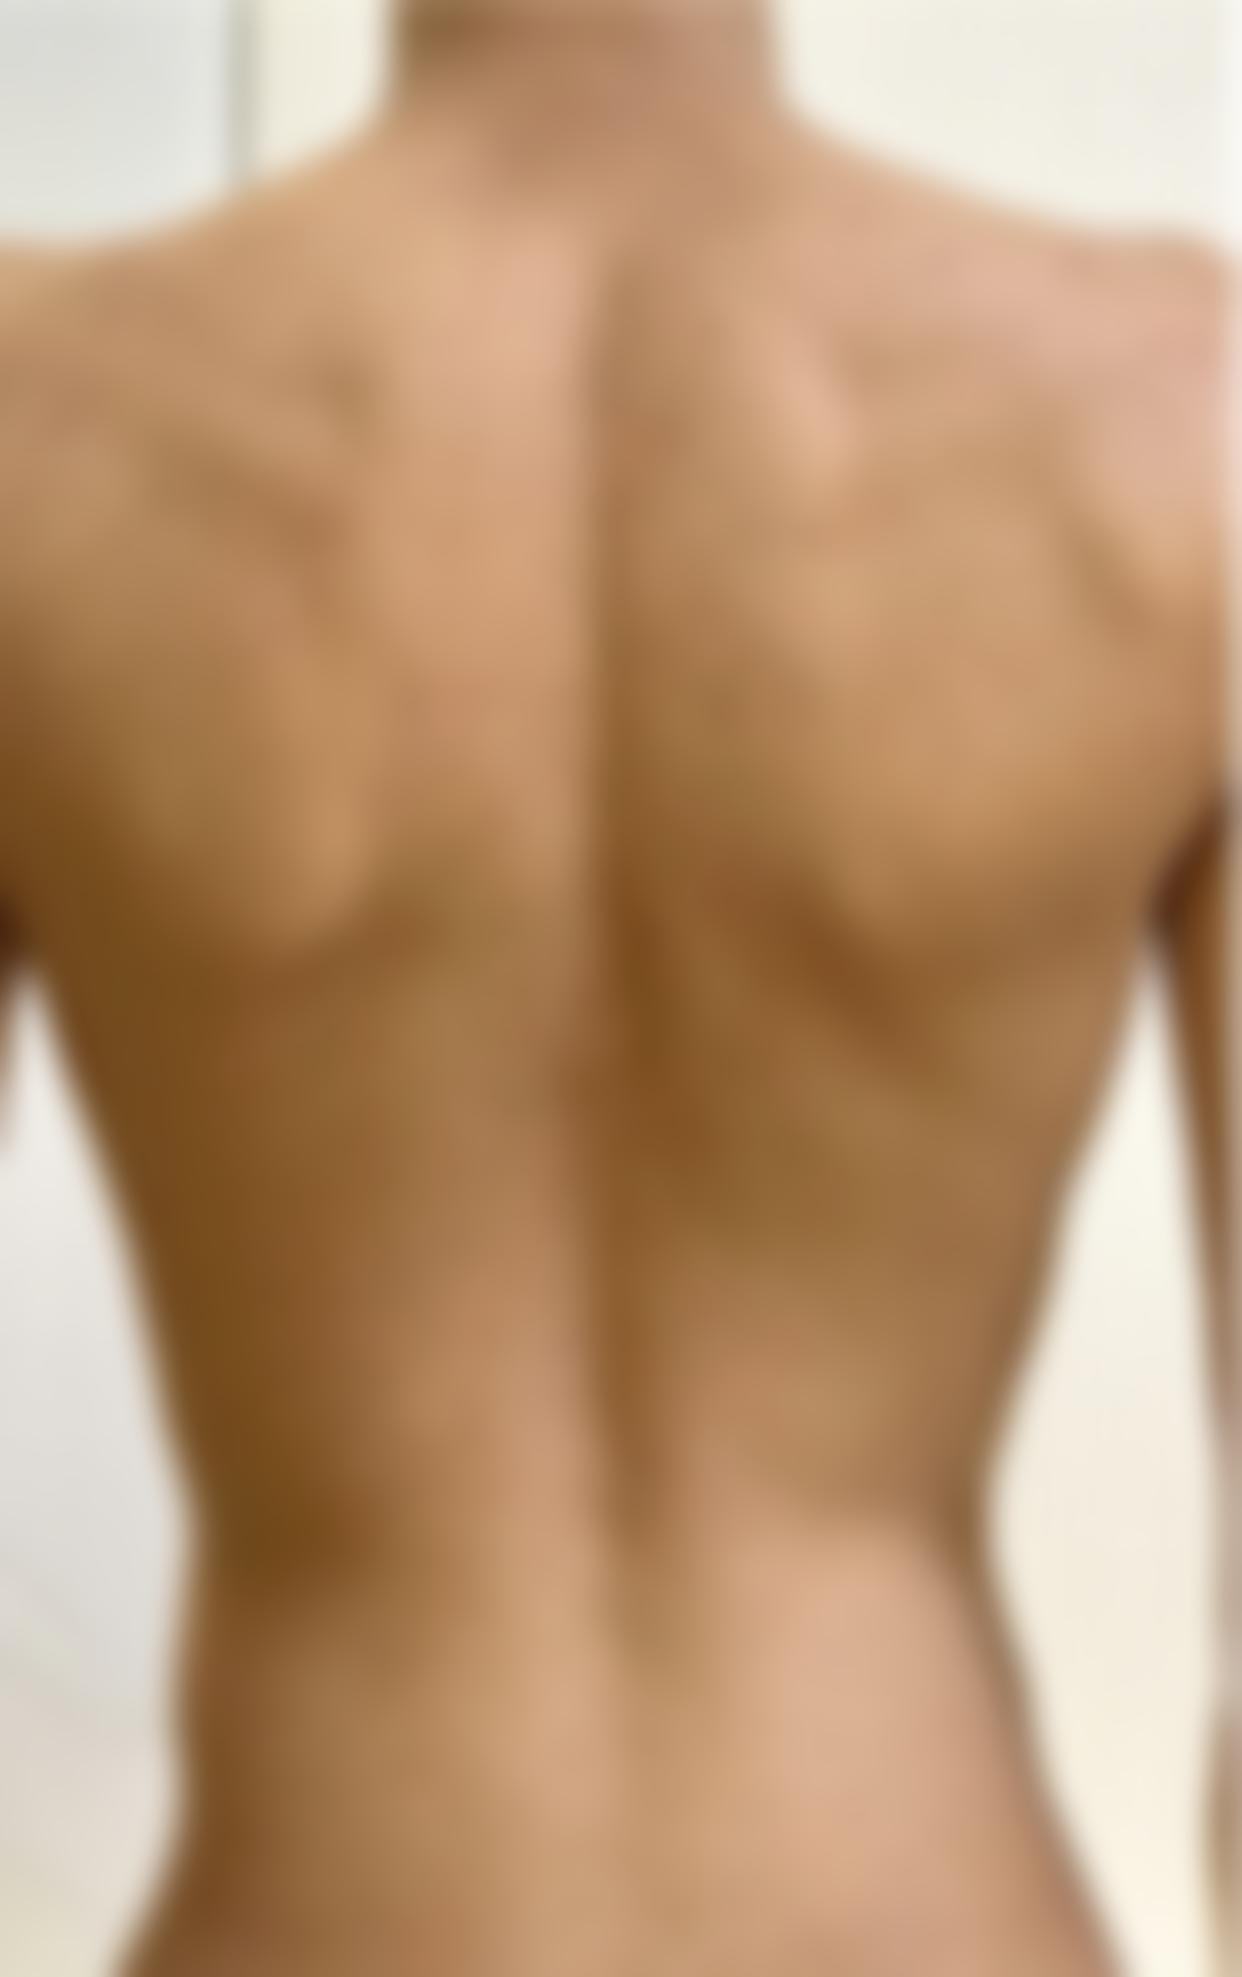
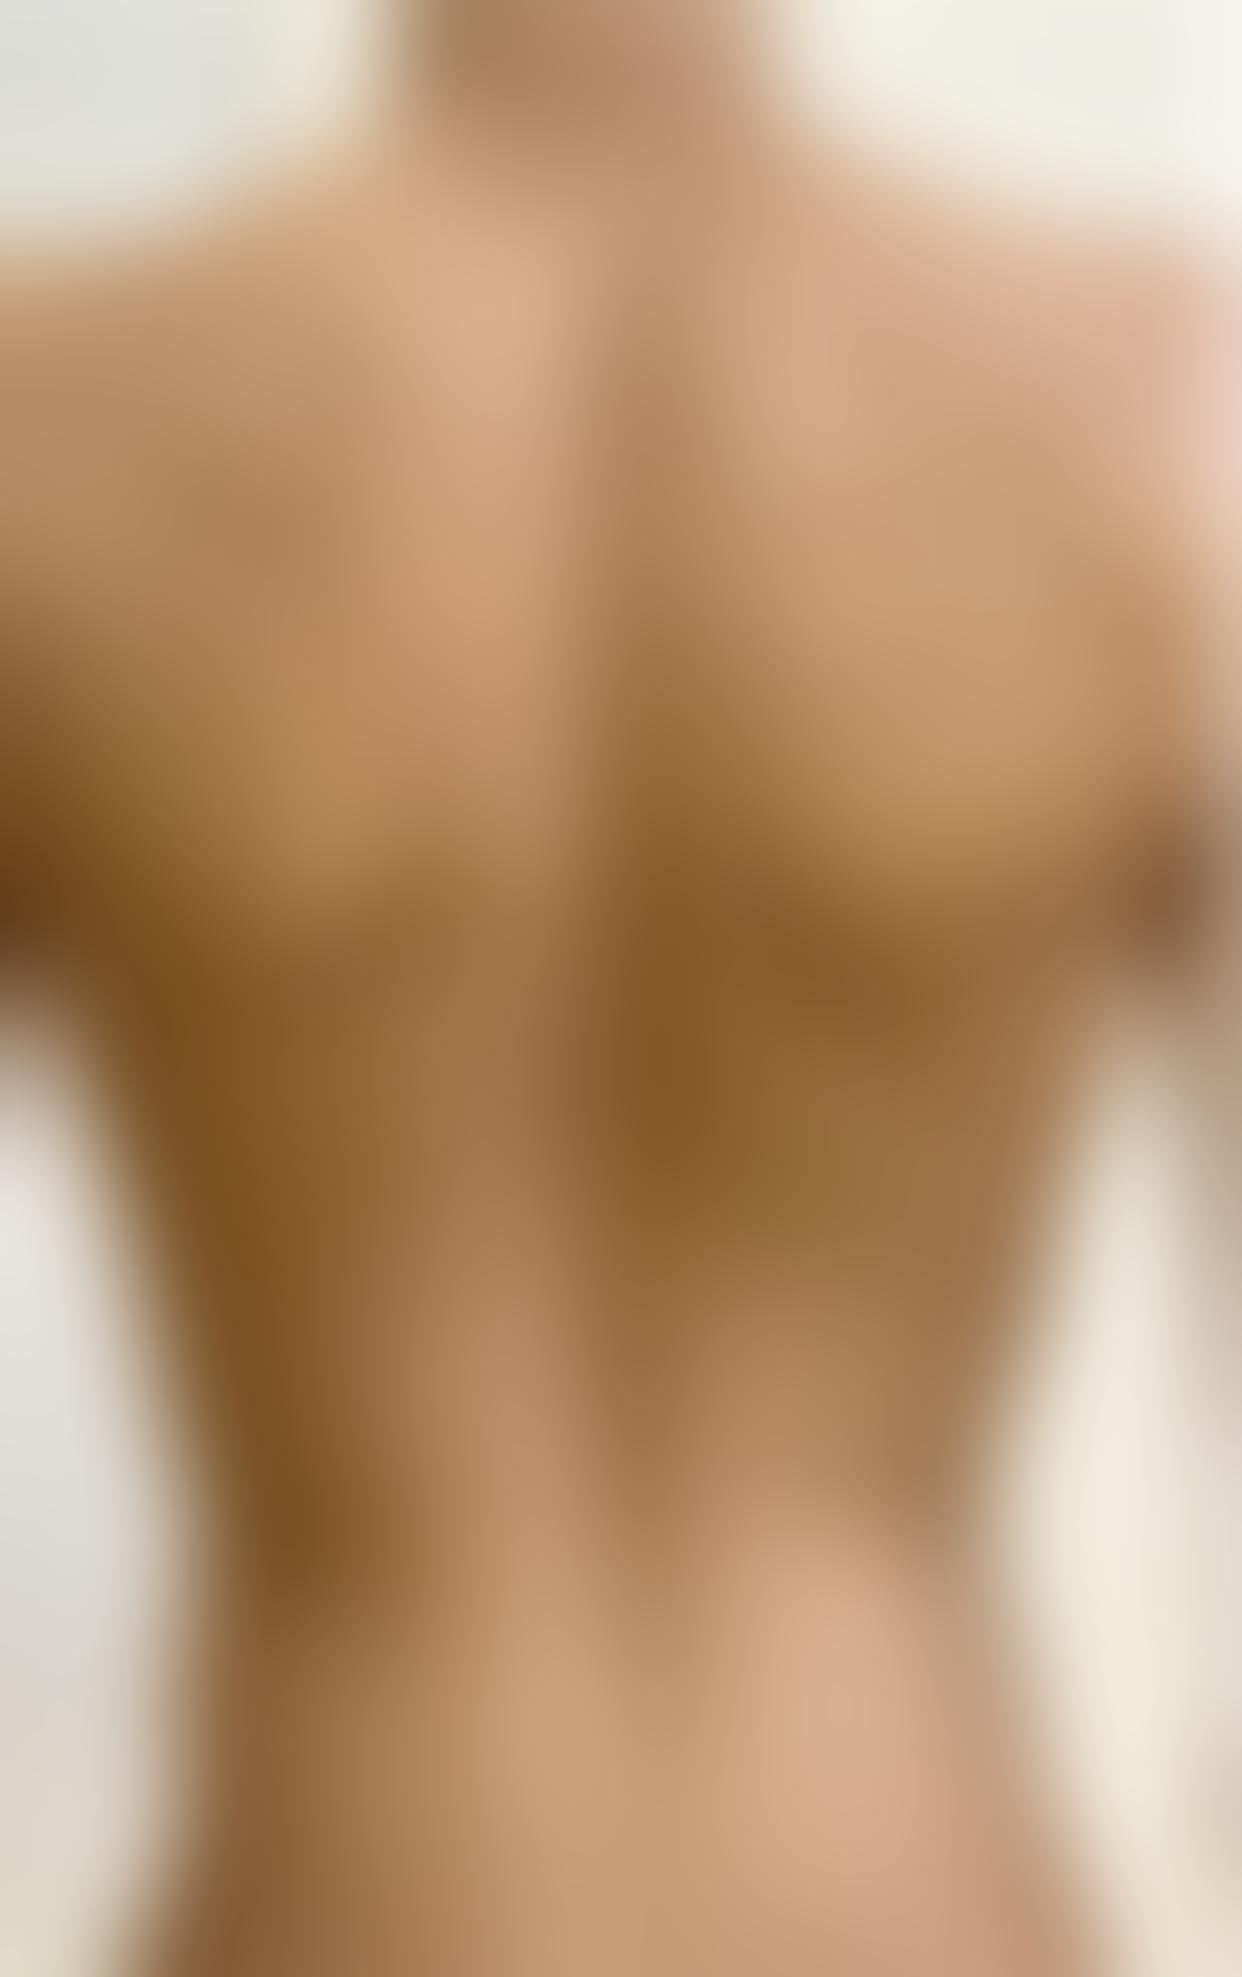
Made sample image more blurred and fixed spacing

diff --git a/static/blur_sample.py b/static/blur_sample.py
@@ -4,7 +4,7 @@ from PIL import Image, ImageFilter
 image = Image.open("static/sample.jpg")
 
 # Apply Gaussian blur
-blurred_image = image.filter(ImageFilter.GaussianBlur(radius=15))
+blurred_image = image.filter(ImageFilter.GaussianBlur(radius=45))
 
 # Save the blurred image back into static/
 blurred_image.save("static/sample_blurred.jpg")
